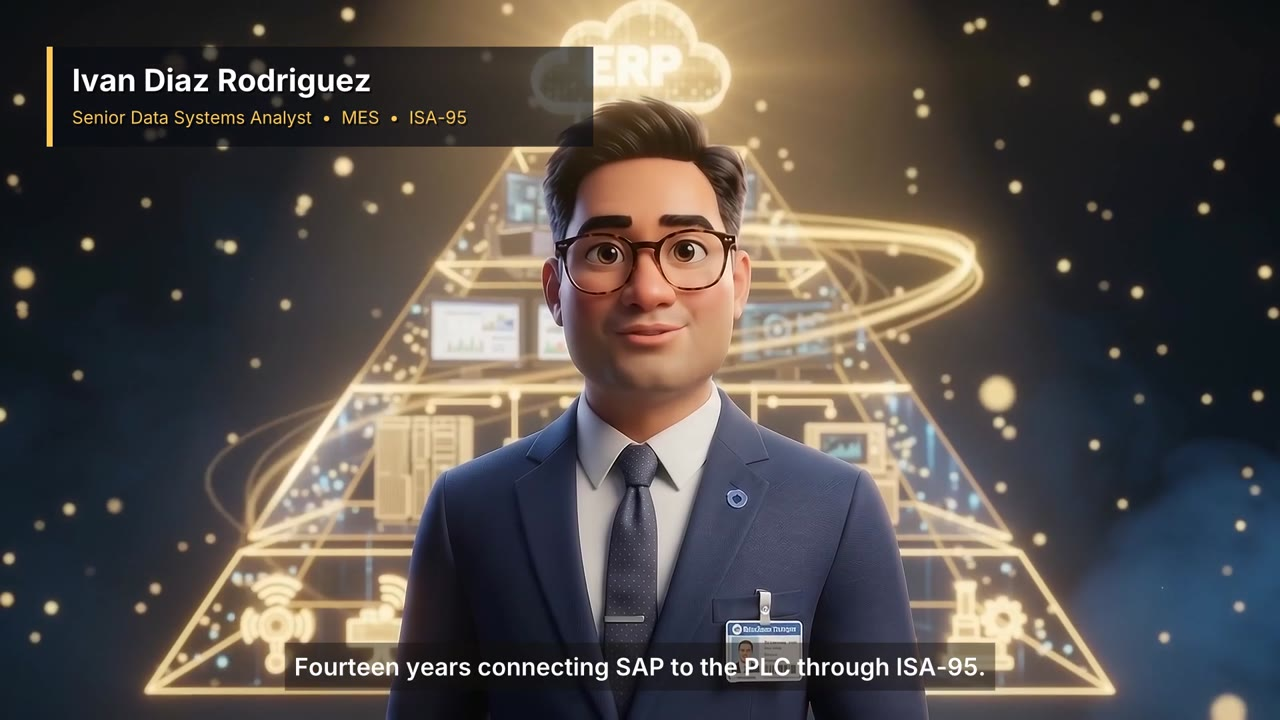
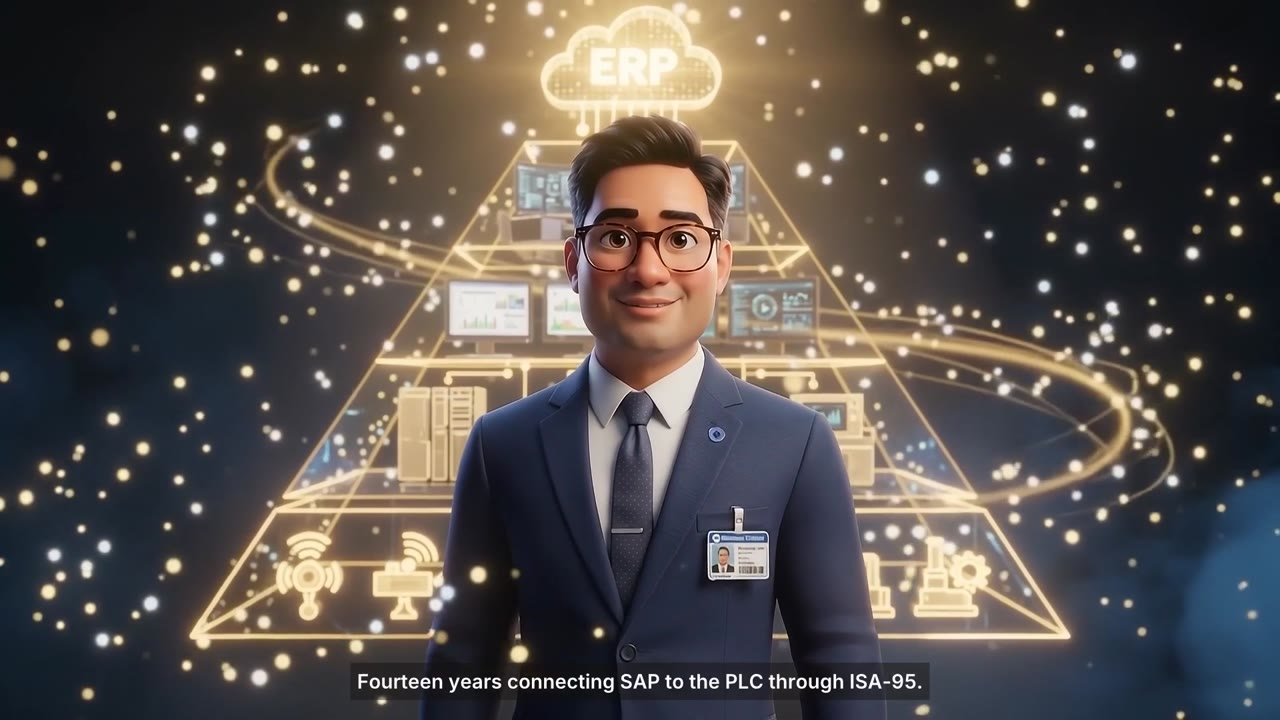
Bigger career film

diff --git a/index.html b/index.html
@@ -1512,7 +1512,7 @@ html[data-theme=dark] .skart{border-bottom-color:#2a3646}
       <div class="cmc">
         <div class="ring2"><i></i><i></i></div>
         <div class="ring"></div>
-        <button class="cmpl" id="cmpl" type="button" aria-label="Watch how I work, 75 seconds"><span class="ms">play_arrow</span></button><div class="face"><video src="img/AvatarIvan.mp4" poster="img/AvatarIvan.jpg" autoplay muted loop playsinline aria-label="Ivan Diaz animated avatar" onerror="this.remove()"></video></div>
+        <div class="face" role="button" tabindex="0" aria-label="Watch how I work with sound"><video src="img/Vide05.mp4" poster="img/Vide05.jpg" style="object-position:50% 40%" autoplay muted loop playsinline aria-label="Ivan Diaz animated avatar" onerror="this.remove()"></video></div>
         <div class="ed"><span style="background:#26b5a8">IPN</span><span style="background:#e53935">MIT</span><span style="background:#1e88e5">Tec</span></div>
         <div class="nm"><b>Ivan Diaz Rodriguez</b><span>MES · Automation · AI</span></div>
       </div>
@@ -2252,9 +2252,9 @@ v.addEventListener('timeupdate',()=>{const t=v.currentTime;bar.style.width=(t/(v
 new IntersectionObserver(es=>es.forEach(e=>{if(!e.isIntersecting&&!v.paused)v.pause()}),{threshold:.2}).observe(v)}}
 
 /* concept map video modal */
-{const m=document.getElementById('vmod'),v=document.getElementById('vmv'),b=document.getElementById('cmpl');
-if(m&&v&&b){const open=()=>{m.hidden=false;v.currentTime=0;v.play().catch(()=>{})},close=()=>{v.pause();m.hidden=true};
-b.onclick=open;const f=document.querySelector('.cmc .face');if(f)f.onclick=open;
+{const m=document.getElementById('vmod'),v=document.getElementById('vmv');
+if(m&&v){const open=()=>{m.hidden=false;v.currentTime=0;v.play().catch(()=>{})},close=()=>{v.pause();m.hidden=true};
+const f=document.querySelector('.cmc .face');if(f){f.onclick=open;f.onkeydown=e=>{if(e.key==='Enter'||e.key===' '){e.preventDefault();open()}}}
 m.querySelectorAll('[data-x]').forEach(x=>x.onclick=close);addEventListener('keydown',e=>{if(e.key==='Escape'&&!m.hidden)close()})}}
 /* story video players */
 document.querySelectorAll('.stv').forEach(w=>{const v=w.querySelector('video'),b=w.querySelector('.stvm'),pi=w.querySelector('.stvp i');if(!v||!b)return;
